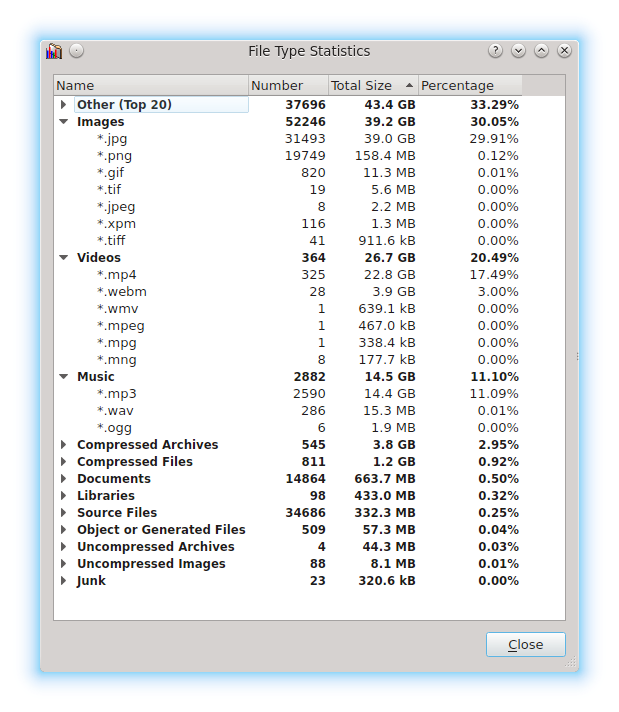
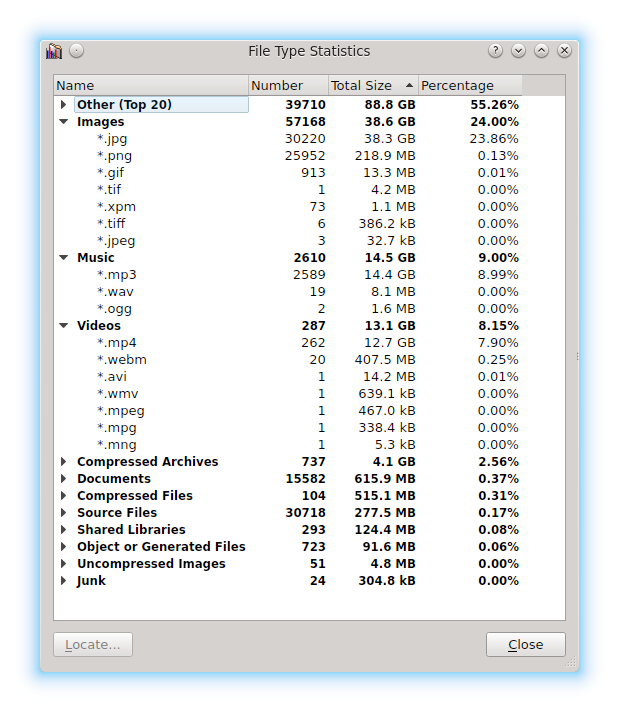
New screenshots and documentation

diff --git a/README.md b/README.md
@@ -9,7 +9,7 @@ Target Platforms: Linux, BSD, Unix-like systems
 
 License: GPL V2
 
-Updated: 2017-02-18
+Updated: 2017-02-20
 
 
 ## Overview
@@ -49,6 +49,9 @@ _Main window screenshot - notice the multi-selection in the tree and the treemap
 [<img src="https://github.com/shundhammer/qdirstat/blob/master/screenshots/QDirStat-column-config.png" height="170">]
 (https://raw.githubusercontent.com/shundhammer/qdirstat/master/screenshots/QDirStat-column-config.png)
 
+[<img src="https://github.com/shundhammer/qdirstat/blob/master/screenshots/QDirStat-locating-file-types.png" height="337">]
+(https://github.com/shundhammer/qdirstat/blob/master/screenshots/QDirStat-locating-file-types.png)
+
 
 [<img src="https://github.com/shundhammer/qdirstat/blob/master/screenshots/QDirStat-cleanup-config.png" height="245">]
 (https://raw.githubusercontent.com/shundhammer/qdirstat/master/screenshots/QDirStat-cleanup-config.png)
@@ -69,6 +72,29 @@ _Full-size images and descriptions on the [Screenshots Page]
 ## Current Development Status
 
 **Latest stable release: V1.2**
+
+- 2017-02-20 Locating files by type from the _File Type Statistics_ window
+
+![Locating FilesWindow]
+(https://github.com/shundhammer/qdirstat/blob/master/screenshots/QDirStat-locating-file-types.png)
+
+  You can now locate files with a specific filename extension directly:
+
+  - You select a file type (a filename extension) in the "File Type Statistics" window.
+
+  - You click "Locate" or you double-click the item.
+
+  - The "Locate Files" window opens.
+
+  - You click a directory there.
+
+  - In the main window, the branch for that directory opens, and all matching
+    files are selected in the tree view and in the treemap.
+
+  - You can now directly start cleanup actions for those files.
+
+  See also [GitHub issue #48](https://github.com/shundhammer/qdirstat/issues/48).
+
 
 - 2017-02-18 New document: [QDirStat for Servers]
 (https://github.com/shundhammer/qdirstat/blob/master/doc/QDirStat-for-Servers.md)
@@ -94,7 +120,7 @@ _Full-size images and descriptions on the [Screenshots Page]
   that limitation.
 
   Next thing to come: Locating files with a specific suffix from there.
-  See [GitHub issue #48](https://github.com/shundhammer/qdirstat/issues/48)
+  See [GitHub issue #48](https://github.com/shundhammer/qdirstat/issues/48).
 
 
 - 2017-02-12 Working on a _File Type Statistics_ window

diff --git a/screenshots/README.md b/screenshots/README.md
@@ -1,4 +1,4 @@
-# QDirStat Screenshots 
+# QDirStat Screenshots
 
 Qt-based directory statistics: KDirStat without any KDE -- from the original KDirStat author.
 
@@ -28,6 +28,20 @@ _Screenshot of output during cleanup actions. Of course this window is purely op
 (https://github.com/shundhammer/qdirstat/blob/master/screenshots/QDirStat-file-type-stats.png)
 
 _Menu View -> File Type Statistics..._
+
+
+## Locating Files by Type
+
+![Locate Files Window]
+(https://github.com/shundhammer/qdirstat/blob/master/screenshots/QDirStat-locate-file-types-window.png)
+
+_Results after clicking on the "Locate" button in the "File Type Statistics" window._
+
+![Locating FilesWindow]
+(https://github.com/shundhammer/qdirstat/blob/master/screenshots/QDirStat-locating-file-types.png)
+
+_Locating files with a specific extension. That branch is automatically opened
+in the tree view in the main window, and all matching files in that directory are selected._
 
 
 ## Configuration
